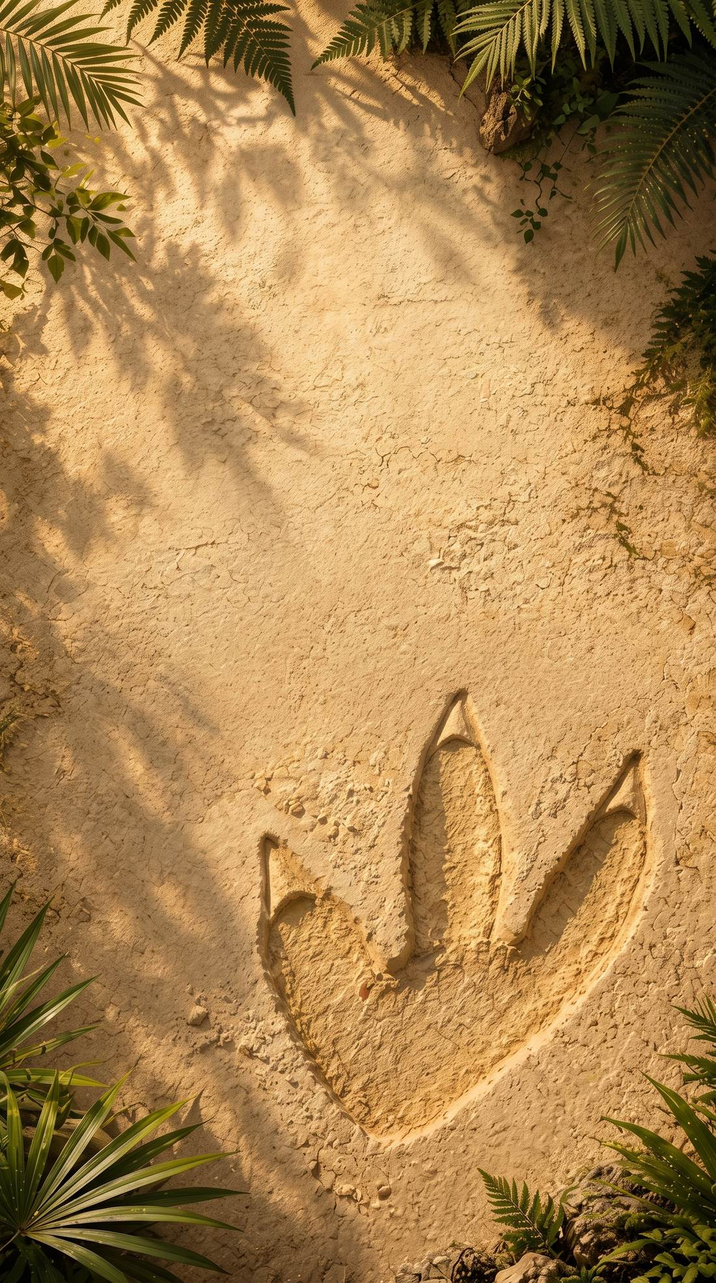
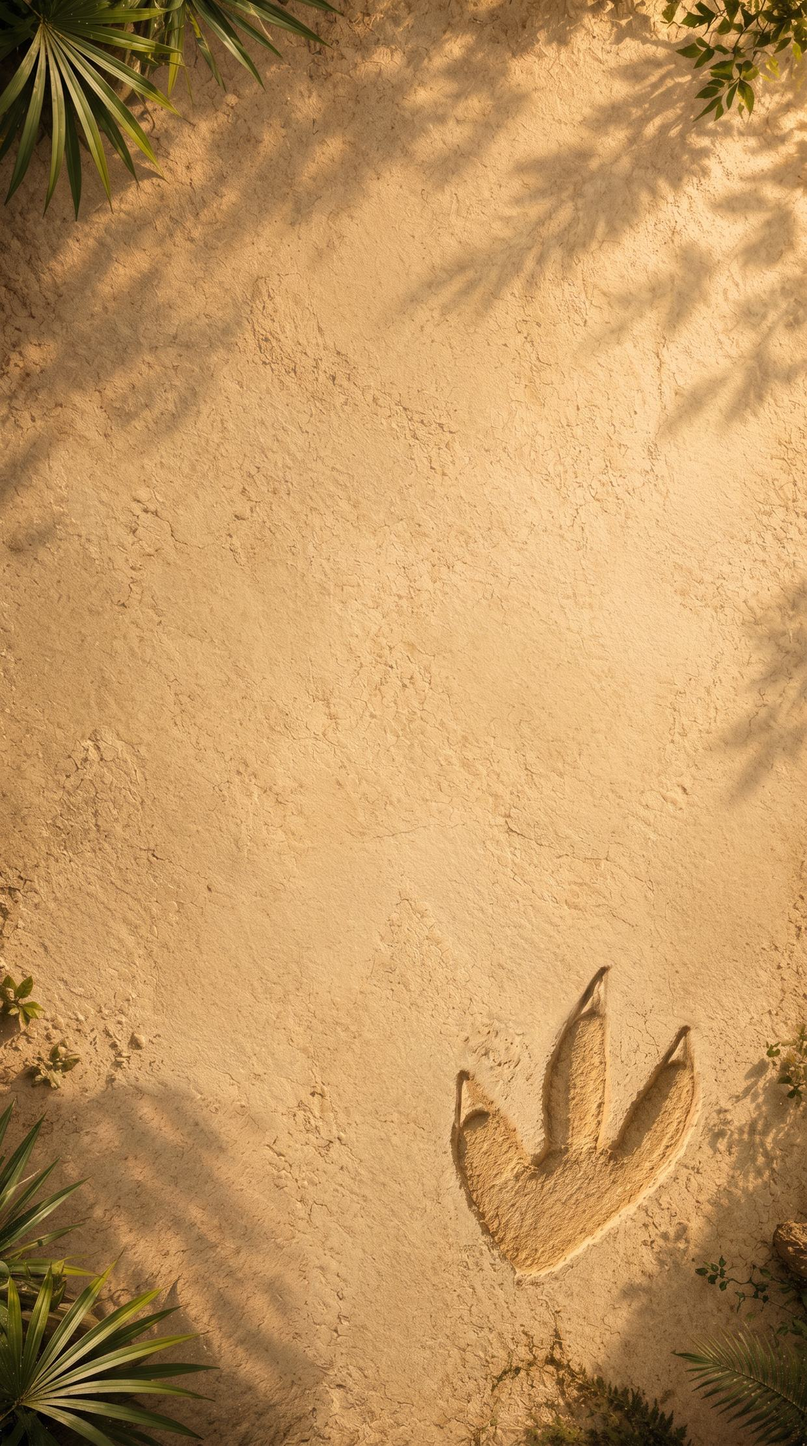
historia: huella en plano general como los otros capitulos y relevo sin pantalla vacia

diff --git a/historia.html b/historia.html
@@ -355,7 +355,7 @@ class Component extends DCLogic {
         const wp = this.qa(`[data-words="${i}"] span`);
         if (wp.length && !this.reduce) {
           const inP = Math.min(1, p/0.34);
-            const outP = Math.max(0, (p-0.9)/0.1);
+            const outP = Math.max(0, (p-0.93)/0.2);
           wp.forEach((s,k)=>{
             const at = k/(wp.length+1);
             const on = inP > at;
